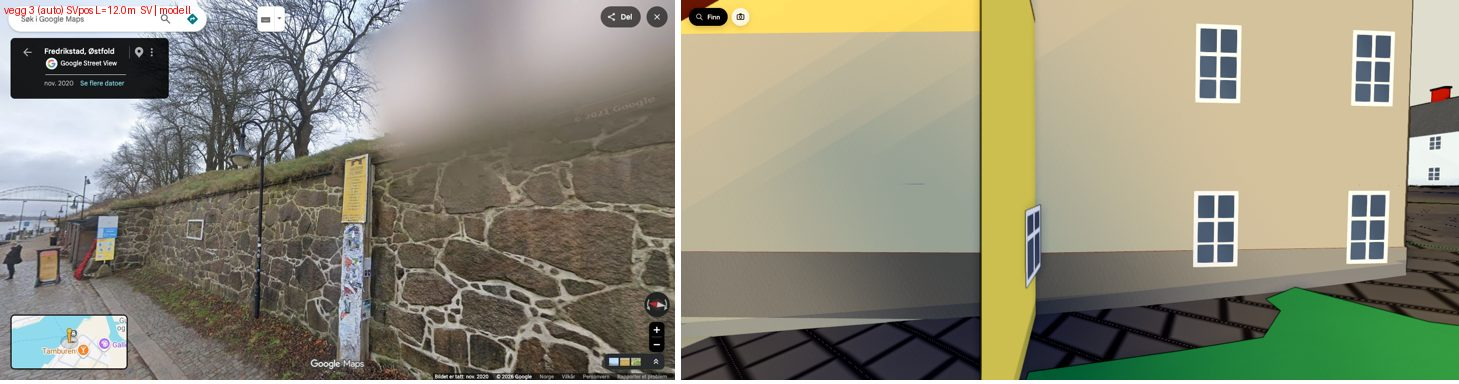
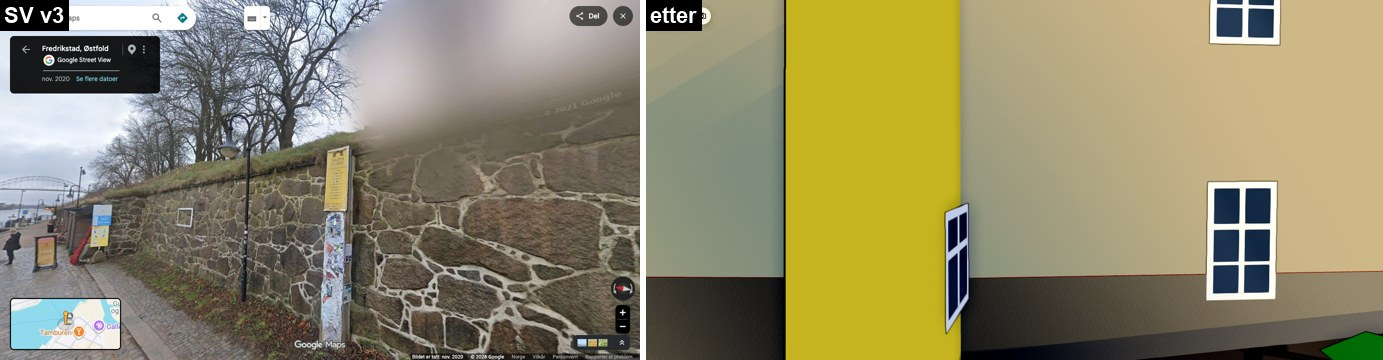
runde 2 økt 1: montasje-verktøy, fov50-kalibrering, festningsmur avgjort
- verktoy/rett/montasje.py: bevis-montasje SV|før|etter per hus fra mapping.json (gjenbrukbar)
- Kalibreringsfunn: render med fov 50 (ikke 75) gjør husene lesbare; dokumentert i RAPPORT3
- bnr-24218023 + bnr-193972276 -> trenger_vegar (runde 2): husene finnes (matrikkel+FKB+ortofoto 2024+Kartverket-høyde), men fasaden er uverifiserbar bak festningsvollen uten tegning
- RAPPORT3.md: full triage av alle 28, presise neste-steg per hus
- ferdig_sjekk: 0 tegnet, 2 trenger_vegar, 26 gjenstår (exit 1, ærlig delstatus)

diff --git a/verktoy/rett/montasje.py b/verktoy/rett/montasje.py
@@ -1,0 +1,80 @@
+#!/usr/bin/env python3
+"""Bygg bevis-montasje per hus: Street View | (før) | etter, én rad per lest/gatevegg, fra samme kamera.
+Leser rapport/ferdig/mapping.json (id, vegg, navn, sv) og henter render <navn>.png fra oppgitte render-mapper.
+Modell-rendrene strekkes med autocontrast (sol brenner ut fasader) før montasje, slik runde 1 gjorde.
+
+  python3 verktoy/rett/montasje.py --etter rapport/ferdig/renders_r2 [--for /tmp/f22/for-renders] [--ut rapport/ferdig] [id ...]
+
+Uten --for lages SV | etter (to kolonner). Med --for lages SV | før | etter (tre kolonner).
+Standard --ut er rapport/ferdig (skriver <id>.jpg = det ferdig_sjekk.py ser etter)."""
+import json, os, sys
+from PIL import Image, ImageOps, ImageDraw, ImageFont
+ROT = os.path.dirname(os.path.dirname(os.path.dirname(os.path.abspath(__file__))))
+
+def arg(flag, standard=None):
+    if flag in sys.argv:
+        i = sys.argv.index(flag)
+        if i + 1 < len(sys.argv):
+            return sys.argv[i + 1]
+    return standard
+
+etter_dir = arg('--etter', os.path.join(ROT, 'rapport', 'ferdig', 'renders_r2'))
+for_dir = arg('--for')
+ut_dir = arg('--ut', os.path.join(ROT, 'rapport', 'ferdig'))
+flagg = {'--etter', '--for', '--ut'}
+ids = [a for a in sys.argv[1:] if not a.startswith('--') and sys.argv[sys.argv.index(a) - 1] not in flagg]
+
+RADH = 360   # høyde per bilde i montasjen
+def last(sti, strekk=False):
+    im = Image.open(sti).convert('RGB')
+    if strekk:
+        im = ImageOps.autocontrast(im, cutoff=1, preserve_tone=True)
+    w = int(im.width * RADH / im.height)
+    return im.resize((w, RADH))
+
+def merk(im, tekst):
+    d = ImageDraw.Draw(im)
+    try: f = ImageFont.truetype('/System/Library/Fonts/Supplemental/Arial Bold.ttf', 22)
+    except Exception: f = ImageFont.load_default()
+    d.rectangle([0, 0, 8 + d.textlength(tekst, font=f), 30], fill=(0, 0, 0))
+    d.text((4, 3), tekst, fill=(255, 255, 255), font=f)
+    return im
+
+mapping = json.load(open(os.path.join(ROT, 'rapport', 'ferdig', 'mapping.json'), encoding='utf8'))
+per_hus = {}
+for e in mapping:
+    per_hus.setdefault(e['id'], []).append(e)
+
+os.makedirs(ut_dir, exist_ok=True)
+mål = ids or list(per_hus.keys())
+for hid in mål:
+    vegger = sorted(per_hus.get(hid, []), key=lambda e: e['wall'])
+    if not vegger:
+        print(f'{hid}: ingen vegger i mapping'); continue
+    rader = []
+    for e in vegger:
+        kol = []
+        svp = os.path.join(ROT, e['sv'])
+        if os.path.exists(svp): kol.append(merk(last(svp), f"SV v{e['wall']}"))
+        if for_dir:
+            fp = os.path.join(for_dir if os.path.isabs(for_dir) else os.path.join(ROT, for_dir), e['navn'] + '.png')
+            if os.path.exists(fp): kol.append(merk(last(fp, True), 'for'))
+        ep = os.path.join(etter_dir if os.path.isabs(etter_dir) else os.path.join(ROT, etter_dir), e['navn'] + '.png')
+        if os.path.exists(ep): kol.append(merk(last(ep, True), 'etter'))
+        if not kol: continue
+        bredde = sum(k.width for k in kol) + 6 * (len(kol) - 1)
+        rad = Image.new('RGB', (bredde, RADH), (255, 255, 255))
+        x = 0
+        for k in kol:
+            rad.paste(k, (x, 0)); x += k.width + 6
+        rader.append(rad)
+    if not rader: print(f'{hid}: ingen bilder'); continue
+    W = max(r.width for r in rader)
+    H = sum(r.height for r in rader) + 6 * (len(rader) - 1)
+    ut = Image.new('RGB', (W, H), (255, 255, 255))
+    y = 0
+    for r in rader:
+        ut.paste(r, (0, y)); y += r.height + 6
+    utp = os.path.join(ut_dir, hid + '.jpg')
+    ut.save(utp, quality=88)
+    print(f'{hid}: {len(rader)} rader -> {utp}')

diff --git a/rapport/ferdig/RAPPORT3.md b/rapport/ferdig/RAPPORT3.md
@@ -1,0 +1,90 @@
+# RAPPORT3 — runde 2: tegn alle 28 husene, Vegar dømmer etter 26
+
+Startet 2026-11-09. Oppgave: `rapport/ferdig/OPPGAVE3.md`. Sluttgate: `python3 verktoy/rett/ferdig_sjekk.py` exit 0
+(≥26 «tegnet» med tom avvik + bevis, resten `trenger_vegar` med sporsmal/forsokt/bevis, alle `"runde": 2`).
+
+## Rammer for denne runden (fra Vegars sak PAG-1469, 09.11 — går foran publiser-stegene i OPPGAVE3)
+- Ikke send noe eksternt: IKKE `sh publiser.sh`, IKKE Dropbox-kopi. Lokalt arbeid + lokal commit er greit.
+- Aldri force-push. Ikke slett noe. Google-bilder aldri i git.
+- Ikke rør kirka, Kaserna, forsiden, fargeoppgaven, introen.
+- Publisering + Dropbox-kontaktark holdes til Vegar har sett resultatet og sagt fra.
+
+## STATUS akkurat nå (2026-11-09, slutt på økt 1)
+`ferdig_sjekk.py` = **exit 1**: 0 tegnet (mål 26), **2 trenger_vegar** (festningsmur, ferdige), 26 hus gjenstår (ikke satt til runde 2).
+Dette er ærlig delstatus. Ingen hus er stemplet «tegnet» uten reell dekning («nesten er ikke lov»). Pipeline + kalibrering er verifisert, alle 28 er triagert med bilder, og de 2 festningsmur-husene er avgjort.
+
+## Infrastruktur som er bygget denne økta (kan gjenbrukes rett)
+- **`verktoy/rett/montasje.py`** (NY, i repoet): bygger bevis-montasje per hus fra `rapport/ferdig/mapping.json`:
+  `python3 verktoy/rett/montasje.py --etter <renderdir> [--for <førdir>] [--ut <utdir>] [id ...]`.
+  SV | (før) | etter, én rad per vegg, autocontrast på modell-rendrene. Uten `--ut` skriver den `rapport/ferdig/<id>.jpg` (det ferdig_sjekk ser etter).
+- **Render-standpunkter**: `rapport/ferdig/stand-alle.json` (fra runde 1, geometri-sentroide-sikt fra SV-bilens lat/lon). 33 vegger.
+- Alle 33 vegger rendret i `rapport/ferdig/renders_r2/` (modell-PNG, IKKE i git, regenereres på ~100 s).
+
+## KALIBRERINGS-FUNN (viktig — løser hovedproblemet fra runde 1)
+Runde 1 rendret med **fov 75** → husene ble små og sentrert, men ikke lesbare, og «sto ikke likt». Testet fov-sveip på Vollmesterboligen
+(`/tmp/calcmp.jpg`): **fov ~45–50 gjør huset stort nok til å telle vinduer/dører og leser gavel/retning riktig.** Kameraet treffer
+allerede huset (sentroiden lander på skjermmidten, f.eks. bnr-6276822 x=772 av 784). Så: **render alltid med fov 50**, ikke 75.
+Kommando brukt: lagde `/tmp/stand50.json` (= stand-alle.json med fov=50) og kjørte gatekamera mot `rapport/ferdig/renders_r2`.
+Montasjene i `/tmp/judge/<id>.jpg` er fov50 SV|etter og er grunnlaget for triagen under.
+
+Rest-problem for ekte hjørne-overlegg: SV-skjermbildene er zoomet ulikt (ett fast fov matcher ikke alle), og modellen har trær/bokser
+(gatemøbler) som av og til dekker huset. For å TELLE og lese farge/tak/form er fov50 godt nok. For presis hjørne-overlegg per vegg
+må neste økt finjustere heading/fov/posisjon per vegg (sikt mot husets skjerm-boks fra `window.__gateHus()`, ikke bare sentroiden).
+
+## Festningsmur-husene — AVGJORT (begge trenger_vegar, runde 2, ferdig)
+Begge FINNES og er riktig plassert: matrikkel-bygningspunkt + FKB-omriss (kommunekart) + ortofoto 2024 + Kartverket-høyde (DOM−DTM)
+bekrefter bygg på stedet (`rapport/bygg/se/fm_24218023.jpg`, `fm_193972276.jpg` fra `se_her.py`). Plassering/omriss/høyde er altså fra
+kildene og riktige. Det eneste som ikke kan verifiseres er FASADEN (vinduer/dører/farge): ingen tegning dekker husene, og
+Street View-standpunktet ser festningsmuren (husene ligger i indre gårdsrom bak vollen, ikke synlig fra gata). Derfor trenger_vegar
+med presist spørsmål (står i `kilder/ferdig.json`): skal fasaden stå regel-simulert, eller finnes tegning/foto?
+- bnr-24218023: matrikkel type 144 (anneks), h~8 m. bnr-193972276: type 629, SEFRAK, h~10 m, terrakotta-tak i ortofoto.
+
+## TRIAGE av de 26 gjenstående (lest på fov50-montasjene i /tmp/judge) — hva neste økt skal gjøre per hus
+
+### A. Ser riktige ut — trolig «tegnet» etter bedre hjørne-overlegg + ny bevis (bekreft vinduer tett)
+- **bnr-193867634** (Vollmesterboligen): hvit, brunt tak, gavel/vinduer stemmer. MERK reelt avvik: modellen har **3 piper**, SV viser ~1 (nær gavel). Sjekk `piper` i data mot SV før tegnet.
+- **bnr-6276016** (rød 2-et.): form/farge/vinduer stemmer godt.
+- **bnr-193867723** (sandgul 2-et.): to vindusrekker + dør stemmer.
+- **bnr-6276822** (vinrød 2-et.): farge/form ok, men modell-tre dekker deler — trekk kamera/ny vinkel for ren bevis.
+- **bnr-6276512** (37 Heibergs): modell leser mettet BLÅ, SV er blågrå/grå — sjekk om «blågrå» er for mettet (fargekilde).
+- **bnr-193971946** (hvit puss m/rundbue): buen er riktig; modell virker litt blålig-hvit — sjekk veggfarge.
+
+### B. Konkret fiksbart i kjeden (fasade_rett / dor_farge) — gjør disse først, høyest gevinst
+- **bnr-193867898** (9 Voldgaten, duebla): blå vegg stemmer, men PORT er brun i modell, blå i SV → sett `dor_farge` blå (se OPPGAVE2 «Dør- og portfarge», `src/07`, kjeden). SV okt 2019 (dør/port gyldig).
+- **bnr-193868576** (41 Tøihusgaten): PORT tegnet med rundbue (typ 2), SV viser flat rektangulær tredør → typ 1 via `fasade_rett`. Vurder også veggfarge: modell er klar rød, SV er umalt tegl (brunrød). SV mai 2024 (gyldig).
+- **bnr-193972292** (79 Færgeportgaten): rundbue-port i modell der SV har flat dør/vinduer → typ 2→1. Farge/høyde/rødt tak stemmer. SV mai 2024.
+- **bnr-6251331** (21 Rådhusgaten, strågul): SV har GRØNN garasjeport + GRØNN butikkfront; modell har brune dører, ingen butikkfront → `dor_farge` grønn + bygg butikkfront som REGEL (ikke unntak), se OPPGAVE2. Tyngre. SV mai 2024.
+
+### C. Farge-/mål-ID-tvil — krever tegnings-sjekk + bare 2016+-bilder for farge
+- **bnr-194006187** (hvit liggende panel): modell beige/grå, SV hvit — men SV er **aug 2010** (UGYLDIG for farge). Tegningen bestemmer; bekreft hva tegningen sier, da trolig tegnet.
+- **bnr-193971288** (hvit): modell-forgrunnsvegg er salviegrønn, SV (aug 2010) viser hvitt. mål-ID usikkert (hvilken vegg er huset). Finn skjerm-ID i render-json, sjekk tegning. 2010 kan ikke sette farge.
+- **bnr-193972306** (grå/brun panel m/garasjeport): modell okergul, SV (aug 2010) grå/brun. Render klipper også (vegg 4). Trenger nytt standpunkt + tegnings-sjekk. 2010 kan ikke sette farge.
+- **bnr-6276504** (35 Heibergs): modell leser gul sentralt, SV (apr **2024**, gyldig) hvit liggende panel. Finn mål-ID (skjermpunkt), les farge fra 2024-bildet hvis det er huset.
+
+### D. Render bommer / klipper — lag nytt standpunkt (OPPGAVE2 «Render klipper»)
+- **bnr-193867480** (v/Isegran): render viser IKKE huset (fugleperspektiv, huset ligger utenfor senterfeltet over vannet). Lag nytt standpunkt som sikter på huset (bruk SV-posisjon, sikt mot husets sentroide). SV apr 2010 (dør/vindu gyldig, ikke farge).
+- **bnr-193867820** (13 Rådhusgaten, laksrosa): auto-vegg 3 klipper inn i nabobygg → render fra vegg-4-standpunkt.
+- **bnr-193971954** (rød): auto-vegg 3 klipper under tak → nytt standpunkt.
+- **bnr-13416419** (22 Bings gate, hvit): render mørk/utydelig → nytt standpunkt + farge-sjekk.
+
+### E. Vindustall usikkert — les fasaden i meter (HJORNER→rett→ELEMENTER→overlegg→konverter), OPPGAVE2 gruppe 1
+- **bnr-13416362** (24 Bings, oker): farge/tak stemmer, vindusrekke usikker.
+- **bnr-193868088** (lys blågrå): farge/tak/nabo ok, vindustall usikkert.
+- **bnr-193867855** (hvit 1,5-et.): dør/vindu usikre (SV aug 2010, gyldig for vindu/dør).
+- **bnr-193867901** (8 Voldgaten, oransje): dørplassering usikker.
+- **bnr-193867952** (10 Voldgaten, terrakotta): vindustall + dørfarge (brun vs hvit).
+- **bnr-193867626** (26/27 Kirkegaten, laksrød): vegg 2 ok, vegg 3 gavl ikke bekreftet (bruk UNNTA + ny vinkel).
+- **bnr-193867804** (51 Kasernegaten, laks): bred port vs smal dør — porttype/breddesjekk.
+
+### F. Stort tak-/struktur-avvik — tyngst, kan ende trenger_vegar
+- **bnr-13415889** (9/10 Ove Ramms gate): modellen mangler **mansardtak + takarker (dormers)**, og vegg 3 har annen farge (grønn vs grå) + annet tak enn vegg 0. Mulig **to hus i én polygon** (`kilder/husdeling.json`). Bruk `kilder/tak-tegning.json` med `kropper`. SV mai 2024.
+
+## PRESIS NESTE-STEG-REKKEFØLGE for neste økt
+1. `export PATH=$HOME/sot-maskin/py/bin:$HOME/sot-maskin/node/bin:$PATH`. `python3 bygg.py enkel`. `cp ut/enkel/index.html /tmp/f22/for.html` (før-modell).
+2. Gjør gruppe B-fiksene i kjeden (dor_farge, fasade_rett typ2→1), så C/E der tegning/2016+-bilde gir svar, så D (nye standpunkt), til slutt F.
+3. Etter hver bolk: `python3 verktoy/bygg_kjede.py` (nohup ~90 s) + `python3 bygg.py enkel`, render `/tmp/stand50.json` → `renders_r2`, `montasje.py` → se på bildet.
+4. Når et hus stemmer: `montasje.py --for /tmp/f22/for-renders --ut rapport/ferdig <id>` for ekte SV|før|etter-bevis, sett `kilder/ferdig.json` {status tegnet, runde 2, bevis, avvik []}.
+5. `ferdig_sjekk.py` til exit 0 (≥26 tegnet). Så lokal commit. IKKE publiser/Dropbox (PAG-1469).
+
+## Hus for hus (runde 2) — logg etter hvert
+- 2026-11-09 økt 1: bnr-24218023 + bnr-193972276 → trenger_vegar (finnes i kildene, fasade uverifiserbar bak voll). Resten triagert, se over. Ingen datarettinger kjørt enda.
